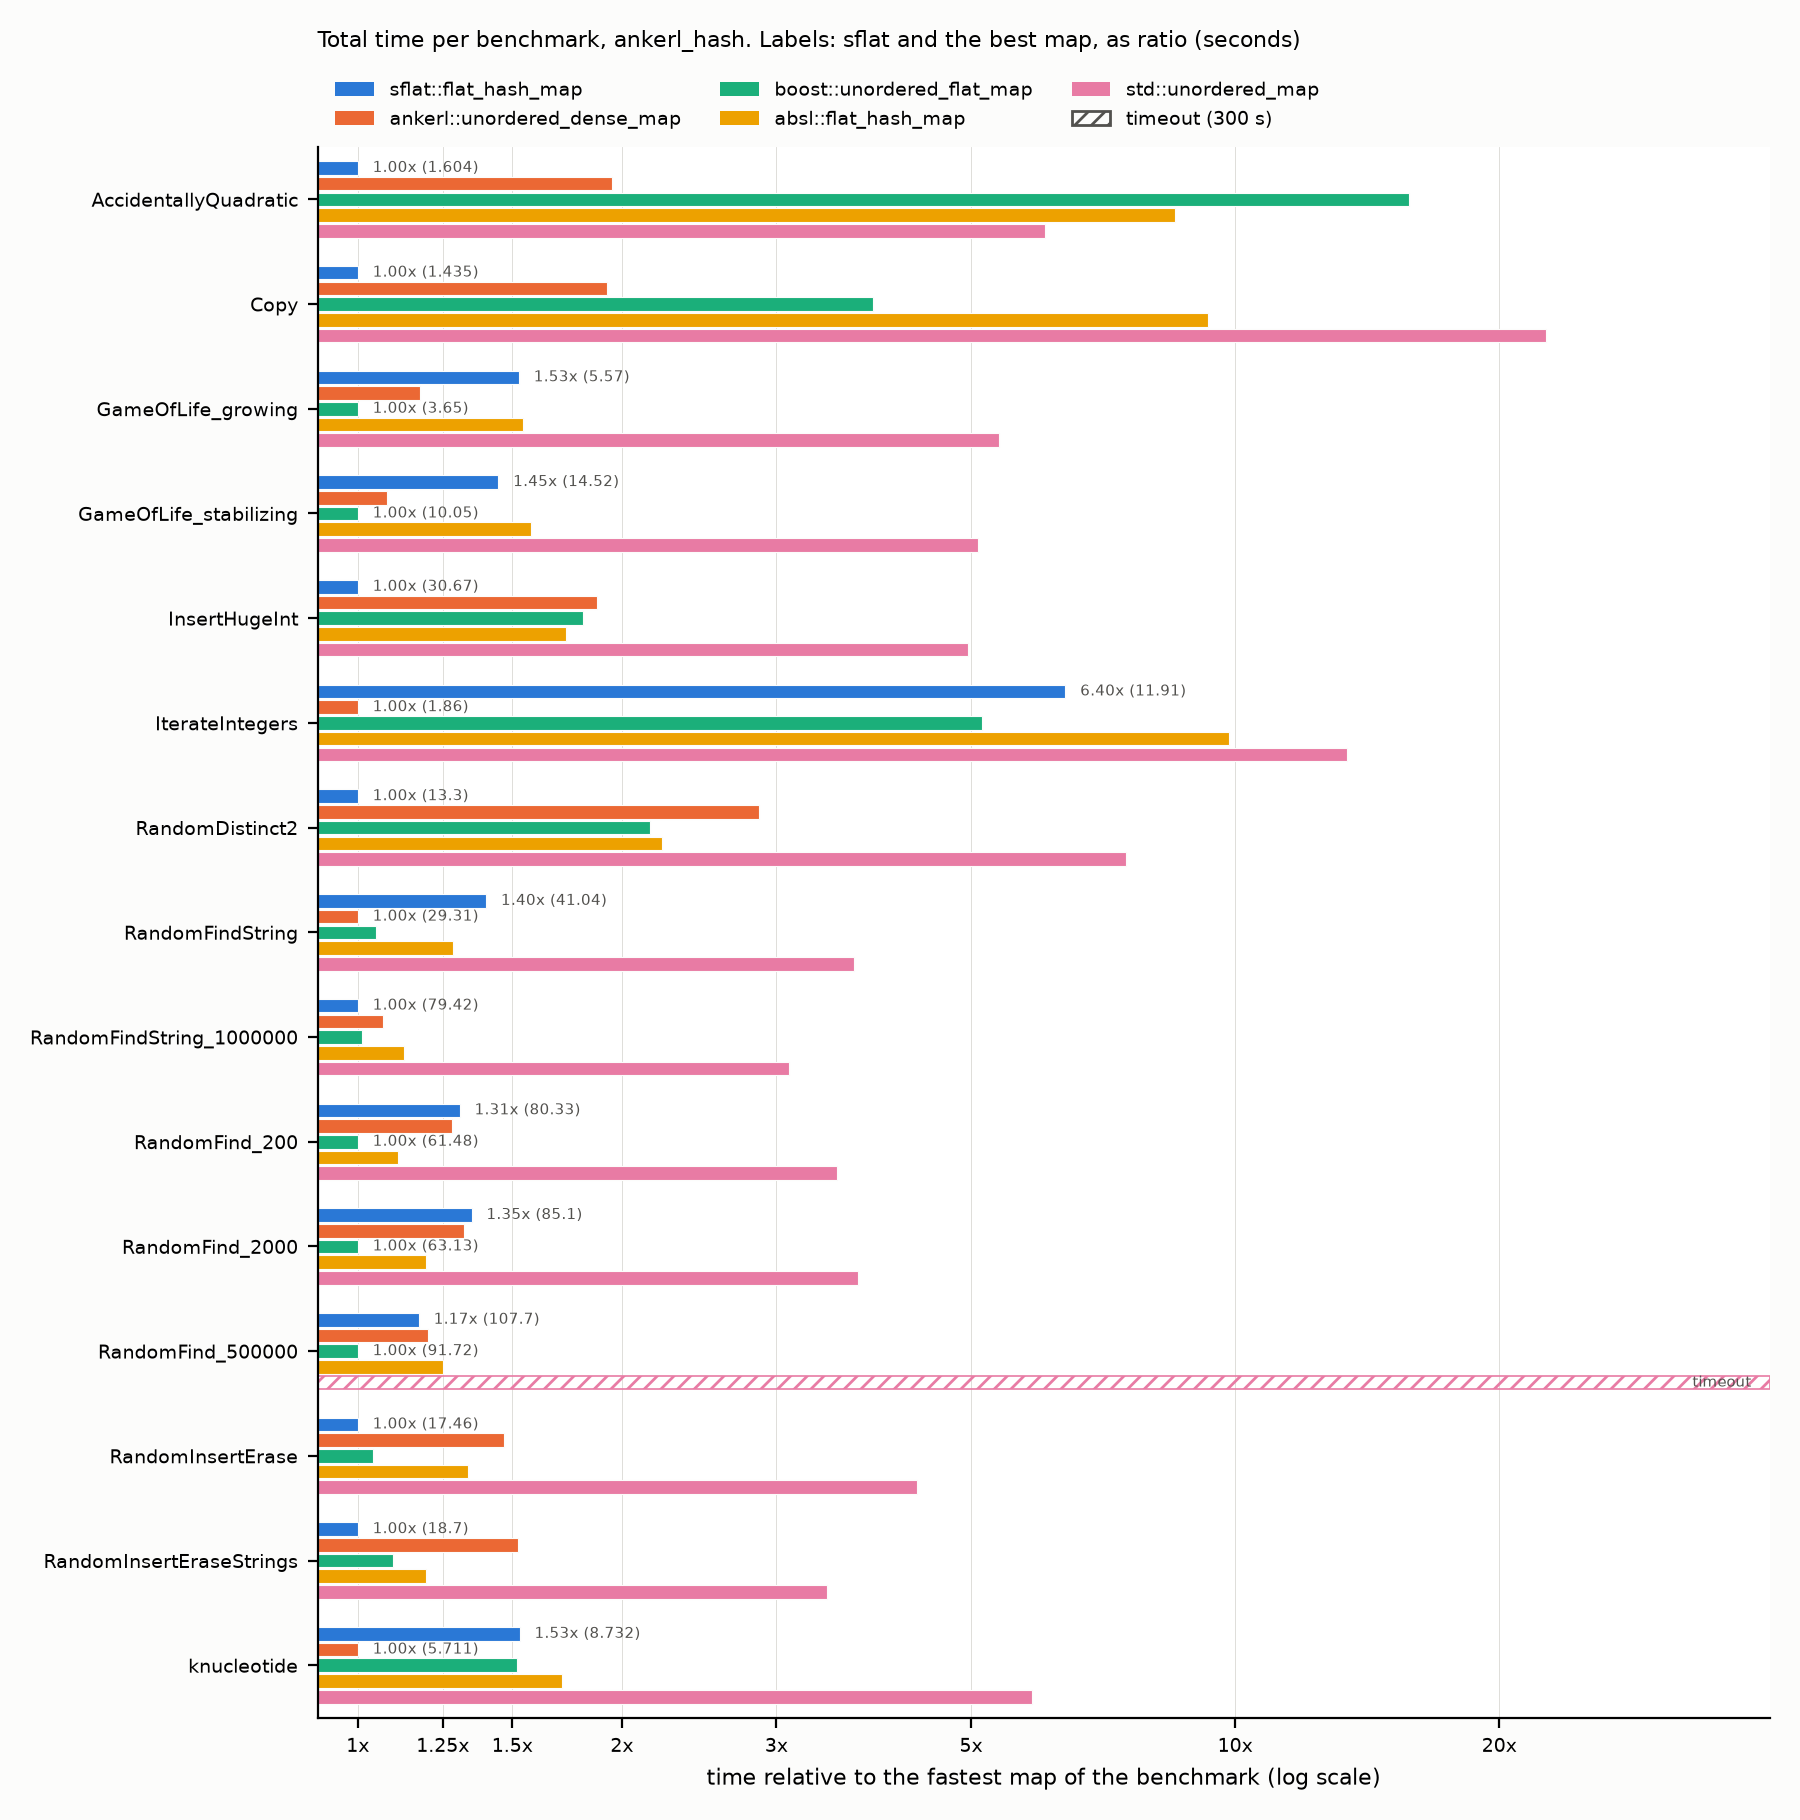
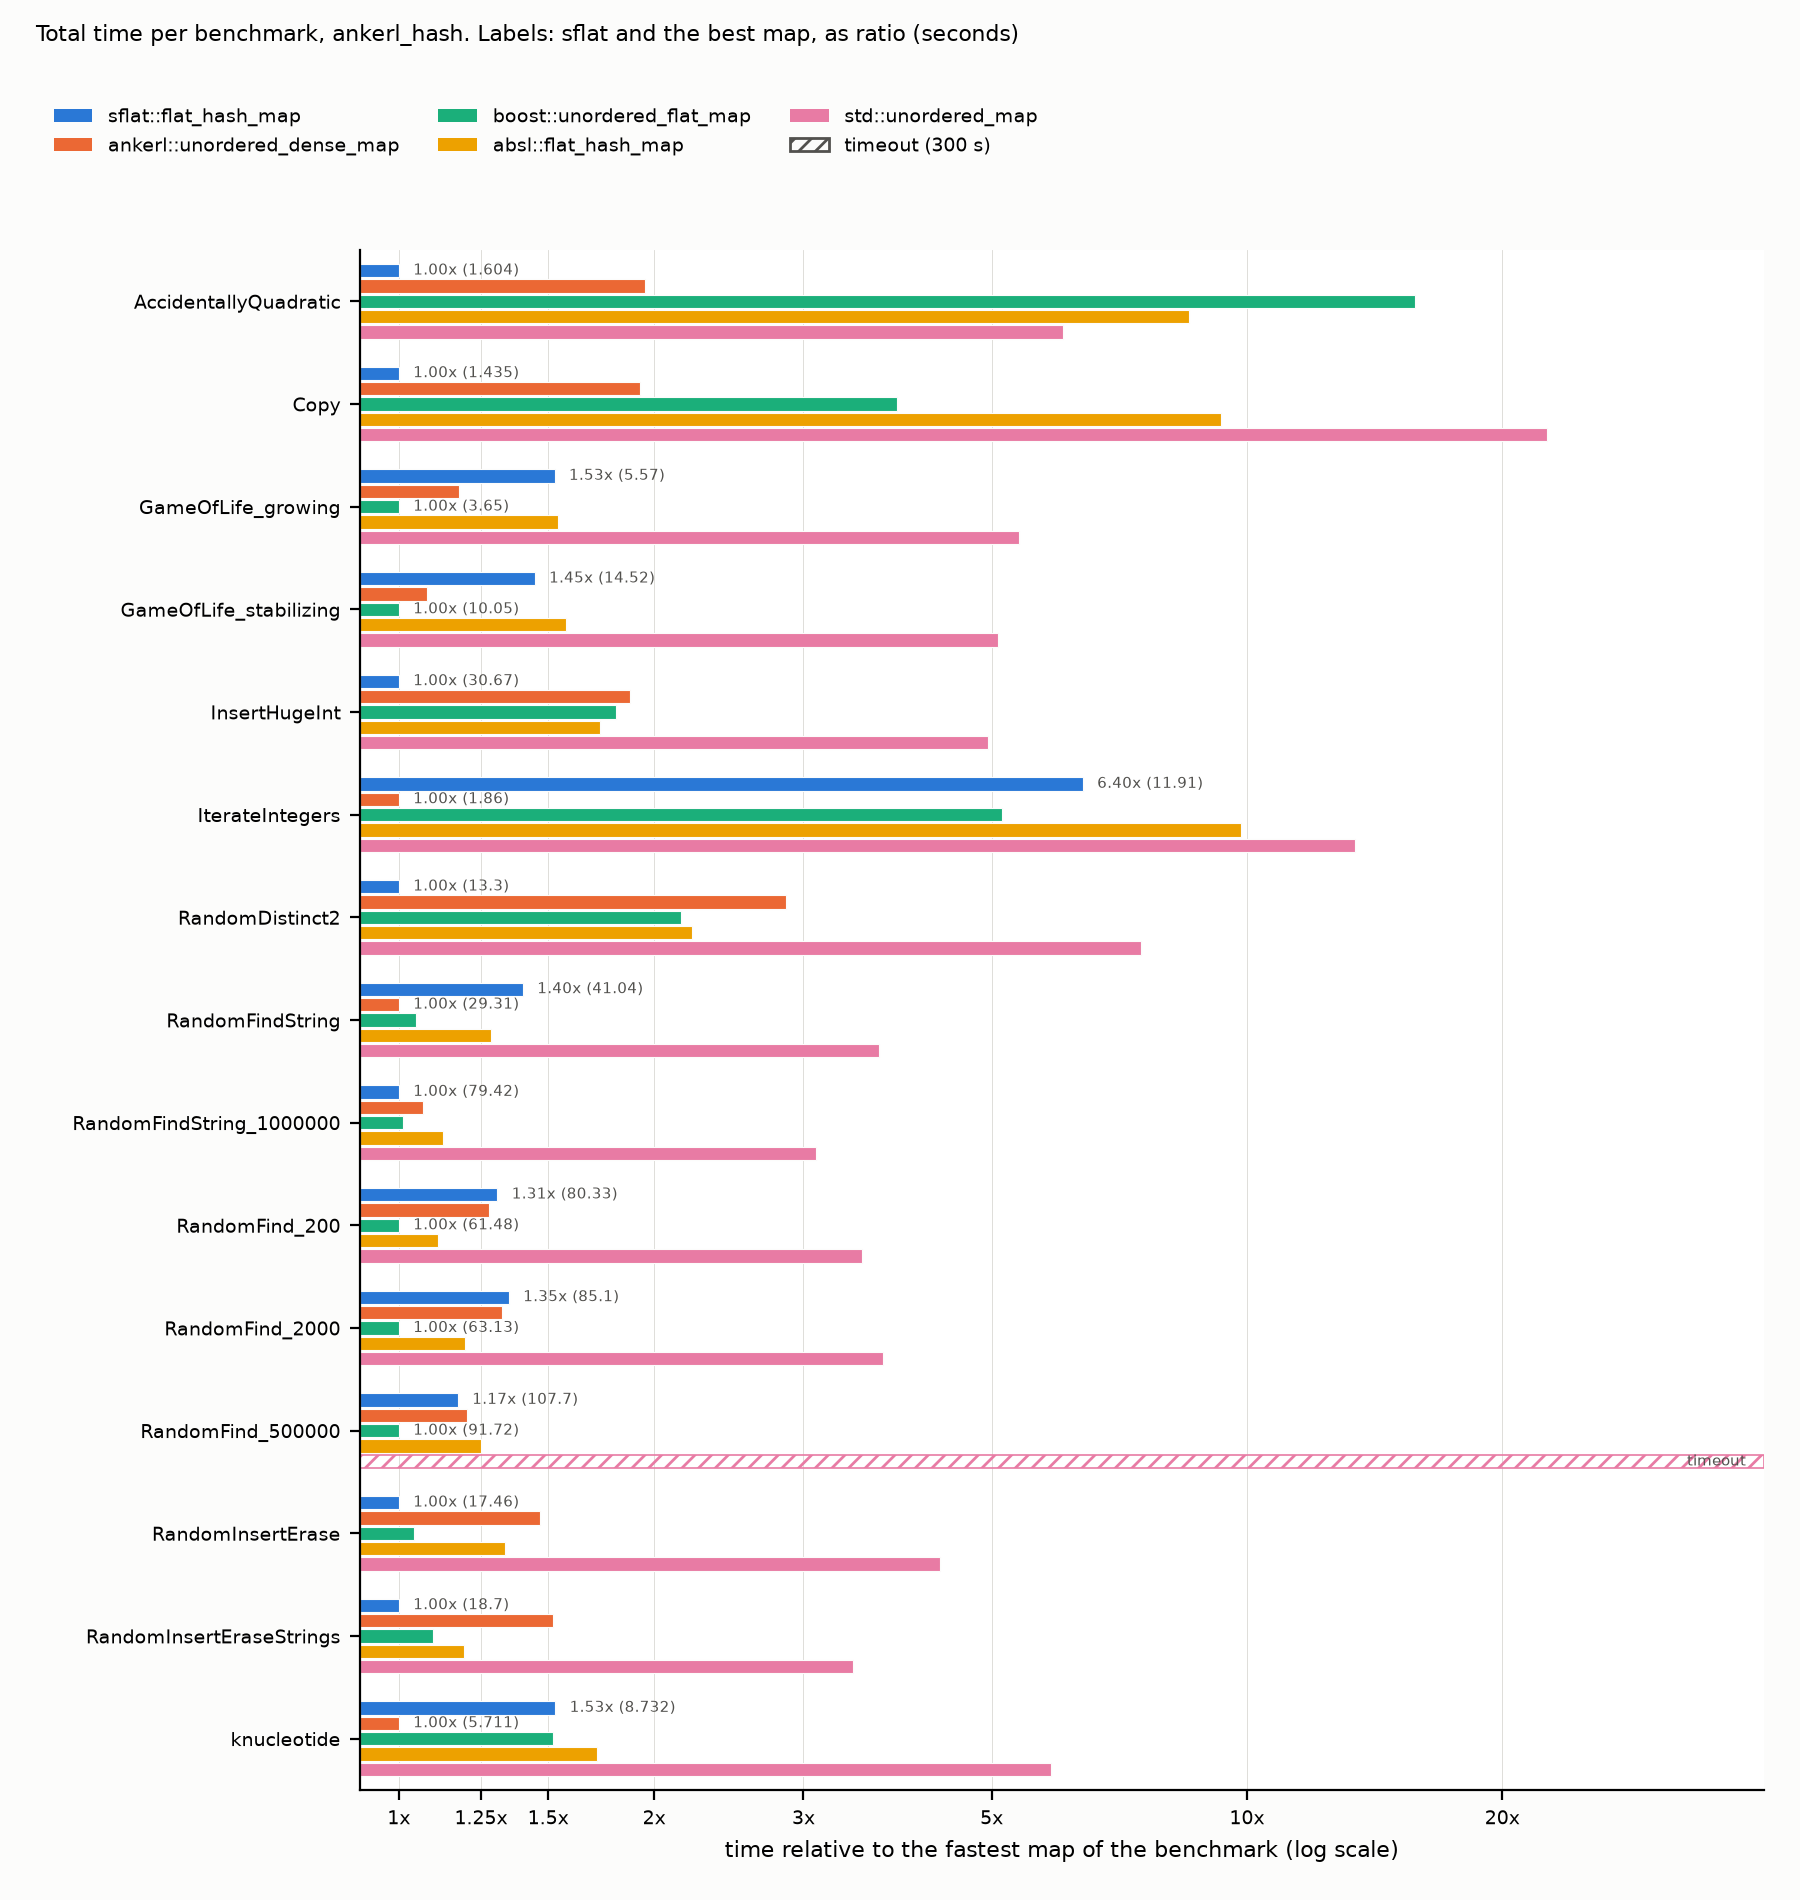
plot_subset: fixed margins so the title, the legend and the plot do not overlap

Changed region(s): [[0.0311, 0.0, 0.9956, 0.9846]]

diff --git a/tools/plot_subset.py b/tools/plot_subset.py
@@ -41,7 +41,7 @@ def plot(hash_, idx, title, xlabel, path, skip_small):
     if skip_small:
         benches = [b for b in benches if min(v[idx] for v in data[(hash_, b)].values() if v) >= MIN_MB]
     n = len(MAPS)
-    fig, ax = plt.subplots(figsize=(9, 0.5 * len(benches) + 1.6), dpi=200)
+    fig, ax = plt.subplots(figsize=(9, 0.5 * len(benches) + 2.0), dpi=200)
     ratios = []
     for bi, b in enumerate(benches):
         d = data[(hash_, b)]
@@ -81,9 +81,11 @@ def plot(hash_, idx, title, xlabel, path, skip_small):
         ax.spines[s].set_visible(False)
     handles = [Patch(facecolor=c, label=l) for _, l, c in MAPS] + \
               [Patch(facecolor="none", edgecolor="#52514e", hatch="////", label="timeout (300 s)")]
-    ax.set_title(title, fontsize=8, loc="left", pad=36)
-    ax.legend(handles=handles, loc="lower left", bbox_to_anchor=(0, 1.0), ncol=3, fontsize=7, frameon=False)
-    fig.tight_layout()
+    # fixed margins in inches: title, then the legend (3 columns x 2 rows), then the plot, so they cannot overlap
+    H = fig.get_figheight()
+    fig.suptitle(title, fontsize=8, x=0.02, ha="left", y=1 - 0.12 / H)
+    fig.legend(handles=handles, loc="upper left", bbox_to_anchor=(0.02, 1 - 0.45 / H), ncol=3, fontsize=7, frameon=False)
+    fig.subplots_adjust(left=0.2, right=0.98, bottom=0.55 / H, top=1 - 1.25 / H)
     fig.savefig(path, facecolor="#fcfcfb")
     plt.close(fig)
 
